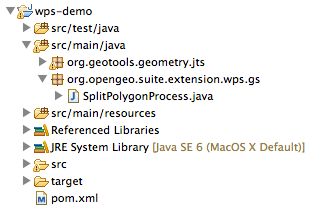
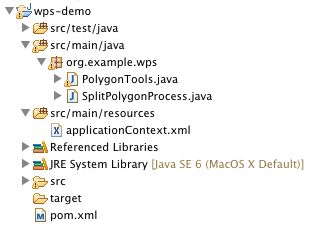
Reworked Usr Guide WPS Process tutorial

Changed region(s): [[0.0, 0.0, 0.9776, 0.9906]]

diff --git a/docs/usermanual/source/processing/wpsjava/index.rst b/docs/usermanual/source/processing/wpsjava/index.rst
@@ -3,55 +3,66 @@
 Creating WPS processes with Java
 ================================
 
-A Web Processing Service (WPS) process is able to perform almost any kind of computation.  The OpenGeo Suite comes with many built in WPS processes in GeoServer, however, the real power in WPS is in its extensibility.  This section will describe how to create a new WPS process in Java, as well as how to deploy it.
+Web Processing Service (WPS) processes are able to perform almost any kind of computation.  
+The OpenGeo Suite supplies many useful WPS processes built in to GeoServer.
+For even more capability, GeoServer can be extended by adding new WPS processes.  
+This section describes creating a custom WPS process in Java and how to deploy and run it in GeoServer.
 
 Overview
 --------
 
-A WPS process is a **Java class** that provides an ``execute`` method. The ``execute`` method accepts parameters which correspond to the WPS parameters, and it returns a value which becomes the output of the process.  The class must also provide metadata to specify things like the process name and description, as well as the names and descriptions of the process parameters.  The class is instantiated each time it is called, so the class can contain state (instance variables) if required.
+A WPS process is simply a **Java class** that provides an ``execute`` method. 
+The ``execute`` method accepts parameters which correspond to the WPS parameters, and it returns a value which becomes the output of the process.  
+The class also provides metadata to specify the names and descriptions of the process and its parameters.  
 
 .. todo:: An diagram of this would be excellent.  
 
-GeoTools, a set of Java libraries underlying GeoServer, provides a convenient framework for building process classes with a minimum of boilerplate code.  Some benefits to  GeoTools are:
+The GeoTools library used by GeoServer provides a convenient framework for building process classes with a minimum of boilerplate code.  
+The GeoTools **Process API** has the following features:
 
-* uses Java annotations to specify the metadata
+* allows using Java annotations to specify the metadata
 * infers the types of process parameters and outputs via reflection
-* automatically handles the complex interplay between XML representations and Java objects at runtime
+* automatically handles the runtime conversion between XML representations and Java objects
+* handles reporting any exceptions thrown by a process
 
-GeoServer includes many useful libraries that can be leveraged in a process, in addition to the full set of GeoTools libraries.  A process can also use external Java libraries if necessary, but if so, the external libraries will need to be specifically deployed along with the process.
+GeoTools includes many powerful libraries that can be leveraged in a process.  
+A process can also use external Java libraries, but in that case the external libraries need to be deployed along with the process.
 
-To create a custom WPS process, you will need to create a new Java project, either with an `IDE <http://en.wikipedia.org/wiki/Integrated_development_environment>`_ or from the command line. This tutorial will assume that you are using `Eclipse <http://www.eclipse.org>`_, a very popular IDE.  Others, like `Netbeans <http://www.netbeans.org>`_, `IntelliJ IDEA <http://www.jetbrains.com/idea/>`_, or (for the brave) purely command-line Java tools can work just as well.
-
-`Maven <http://maven.apache.org>`_ will also be used to build the project and manage its dependencies.  
+To create a custom WPS process, you will need to create a new Java project, either with an `IDE <http://en.wikipedia.org/wiki/Integrated_development_environment>`_ or using command-line tools. 
+This tutorial shows the use of the popular `Eclipse <http://www.eclipse.org>`_ IDE.  
+Other IDEs such as `Netbeans <http://www.netbeans.org>`_ or `IntelliJ IDEA <http://www.jetbrains.com/idea/>`_ can be used as well.
+In addition, `Maven <http://maven.apache.org>`_ will be used to build the project and manage its dependencies.  
 
 
 About the process
 -----------------
 
-We will create a process called ``gs:splitPolygon`` in a project called ``wps-demo``.  This process will split a polygon by a line.  Both the line and the polygon will be inputs, and the result will be the resulting split Geometry (usually a collection of polygons).
+We will create a process called ``gs:splitPolygon`` in a project called ``wps-demo``.  
+This process splits a polygon geometry by a line crossing it.  
+The inputs are the polygon to split, and the line to split by.
+The output is the geometry representing the collection of polygons resulting from the split.
 
-
-Create the Java Project
+Create the Java project
 -----------------------
 
-Use Maven to create the Java project.  In order to do that, we'll use the `Maven Archetype plugin <http://maven.apache.org/archetype/maven-archetype-plugin/>`_, a Maven project templating toolkit. As a custom WPS process is packaged as a regular JAR file, no special configuration is necessary for this project.  Type the following on a console:
+We'll use Maven to create the Java project for the process.  
+To do that we use the `Maven Archetype plugin <http://maven.apache.org/archetype/maven-archetype-plugin/>`_, a project templating tool. 
+Since a custom WPS process is packaged as a regular JAR file the standard archetype can be used for this project.  
+It will generate the project directory structure, a Maven POM file describing the project, and some useful Java artifacts.  
+Enter the following in a console:
 
 .. code-block:: console
 
-   mvn archetype:generate
+   mvn archetype:generate -DarchetypeArtifactId='maven-archetype-quickstart' -DarchetypeVersion=1.1 -DgroupId=org.example.wps -DartifactId=wps-demo -Dversion=1.0 -DinteractiveMode=false
 
-This will start the generation of the project, including the creation of a valid Maven POM (:file:`pom.xml`) file describing the project.  There will be a list of available archetypes, but as this is a simple project, you shouldn't have to choose any special number from the list. You should however, fill out the project metadata as follows:
+This command instructs Maven to generate a project using the following information:
 
-.. code-block:: console
+* The Maven groupId and the project's Java package are named ``org.example.wps``
+* The name of the project is ``wps-demo``
+* The version for the project build artifacts is ``1.0``
 
-   groupId: org.opengeo.suite.extension.wps
-   artifactId: wps-demo
-   version: 1.0-SNAPSHOT
-   package: org.opengeo.suite.extension.wps.gs
-
-.. note:: The rightmost part of the ``package`` name defines the **namespace** of the WPS process being created (``gs`` in this case, a pre-existing namespace in GeoServer).  
-
-You should end up with a project named ``wps-demo``, inside which you will be able to find the POM file. Add the following dependencies to this file:
+You should end up with a project directory named ``wps-demo`` with the POM file :file:`pom.xml` inside it. 
+Add the following GeoTools library dependencies to this file:
 
 .. code-block:: xml
 
@@ -66,7 +77,8 @@ You should end up with a project named ``wps-demo``, inside which you will be ab
       <version>8-SNAPSHOT</version>
     </dependency>
 
-Please ensure that the GeoTools version matches the one used by the OpenGeo Suite. You can check the version of GeoServer and GeoTools by clicking on the :guilabel:`About Geoserver` section at the bottom of the :guilabel:`About & Status` section of the `GeoServer Web Admin Interface <../../geoserver/webadmin/>`_.
+Please ensure that the GeoTools version matches the one used by the OpenGeo Suite being deployed into. 
+You can check the version of GeoTools by clicking on the :guilabel:`About Geoserver` section at the bottom of the :guilabel:`About & Status` section of the `GeoServer Web Admin Interface <../../geoserver/webadmin/>`_.
 
 .. todo:: Replace this image with an image of version 3.0 showing GeoTools 8
 
@@ -74,7 +86,34 @@ Please ensure that the GeoTools version matches the one used by the OpenGeo Suit
 
    *GeoServer showing GeoTools version*
 
-The entire POM file should look like this:
+You also need to add a reference to the OpenGeo Maven repository to provide access to the required libraries.
+
+.. code-block:: xml
+
+  <repositories>
+   <repository>
+    <id>opengeo</id>
+      <url>http://repo.opengeo.org</url>
+   </repository>
+  </repositories>
+
+Maven also needs to be directed to use the Java 1.5 compiler by adding the following:
+
+.. code-block:: xml
+
+  <build>
+    <plugins>
+      <plugin>
+        <artifactId>maven-compiler-plugin</artifactId>
+        <configuration>
+          <source>1.5</source>
+          <target>1.5</target>
+        </configuration>
+      </plugin>
+    </plugins>
+  </build>
+
+The final POM file should look like this:
 
 .. code-block:: xml
 
@@ -112,37 +151,53 @@ The entire POM file should look like this:
       <scope>test</scope>
     </dependency>
   </dependencies>
+  
   <repositories>
    <repository>
     <id>opengeo</id>
       <url>http://repo.opengeo.org</url>
    </repository>
   </repositories>
+  
+  <build>
+    <plugins>
+      <plugin>
+        <artifactId>maven-compiler-plugin</artifactId>
+        <configuration>
+          <source>1.5</source>
+          <target>1.5</target>
+        </configuration>
+      </plugin>
+    </plugins>
+  </build>
+  
  </project>
 
-Now that we have the project definition and dependencies set up, we can create the Eclipse project by going into the :file:`wps-demo` directory and issuing the following command:
+With the project definition and dependencies set up, we can create the Eclipse project by going into the :file:`wps-demo` directory and issuing the following command:
 
 .. code-block:: console
 
    mvn eclipse:eclipse
 
-This will create a Java project that we can import into an Eclipse workspace in order to start working on the code. The initial project structure should look like this:
+This creates a Java project that we can import into an Eclipse workspace in order to start working on the code. The project structure should look like this:
 
 .. figure:: img/project-structure.png
 
-   *Initial Eclipse project structure*
+   *Eclipse project structure*
 
 
-Create custom functionality
----------------------------
+Implement process functionality
+-------------------------------
 
-The previous steps have created a package, ``org.opengeo.suite.extension.wps.gs``, where inside we will implement the custom WPS functionality.  Next, create another package that will contain helper methods for our functionality, called ``org.geotools.geometry.jts``.  After that, add a class called ``PolygonTools``.  This class contains two methods: one to polygonize a set of Geometries (``polygonize(Geometry geometry)``) and one to split a polygon with a line (``splitPolygon(Geometry poly, Geometry line)``).
+The previous steps created a Java package ``org.example.wps`` in which to implement the custom WPS functionality.  
+We first define an auxiliary class to contain the spatial processing code.  
+Create a class called ``PolygonTools``.  This class contains two methods: one to polygonize a set of Geometries (``polygonize(Geometry geometry)``) and one to split a polygon with a line (``splitPolygon(Geometry poly, Geometry line)``).
 
-The code for the ``PolygonTools`` class is below:
+The code for the ``PolygonTools`` class is:
 
 .. code-block:: java
   
-  package org.geotools.geometry.jts;
+  package org.example.wps;
 
   import java.util.ArrayList;
   import java.util.Collection;
@@ -182,14 +237,14 @@ The code for the ``PolygonTools`` class is below:
   }
 
 
-With this class in place, now we can implement a WPS process. Create a class called ``SplitPolygonProcess`` that will have a method called ``execute``, and add it to ``org.geotools.process.geometry.gs`` with the following code:
-
+With this class in place, we can now implement the WPS process. 
+Create a class called ``SplitPolygonProcess`` 
+and populate it with the following code:
 
 .. code-block:: java 
 
-  package org.geotools.process.geometry.gs;
+  package org.example.wps;
 
-  import org.geotools.geometry.jts.PolygonTools;
   import org.geotools.process.factory.DescribeParameter;
   import org.geotools.process.factory.DescribeProcess;
   import org.geotools.process.factory.DescribeResult;
@@ -198,48 +253,53 @@ With this class in place, now we can implement a WPS process. Create a class cal
   import com.vividsolutions.jts.geom.Geometry;
 
   /**
-   * Splits a Polygon (which may contain holes) by a LineString.
-   *  
+   * A GeoServer WPS Process which splits a Polygon by a LineString.
    */
-
   @DescribeProcess(title = "splitPolygon",
-  		   description = "Splits a Polygon
-		    (which may contain holes) by a LineString")
+  		   description = "Splits a Polygon by a LineString")
   public class SplitPolygonProcess implements GSProcess {
 
     @DescribeResult(name = "result",
     			  description = "The collection of result polygons")
     public Geometry execute(
-          @DescribeParameter(name = "polygon",
-	  		  description = "The polygon to be split") Geometry poly,
-          @DescribeParameter(name = "line",
-	  	          description = "The line to split by") Geometry line)
-          throws Exception {
-          	 return PolygonTools.splitPolygon(poly, line);
+          @DescribeParameter(name = "polygon", description = "The polygon to be split") 
+	  Geometry poly,
+          @DescribeParameter(name = "line", description = "The line to split by") 
+	  Geometry line)
+    {
+      return PolygonTools.splitPolygon(poly, line);
     }
   }
 
+  
+The process metadata is used to populate the WPS capabilities documents.  
+It is specified in the source code using the following Java annotations:
 
-The ``execute`` method takes two parameters of the Geometry type: a polygon to be split and the line that will split the polygon.
+* ``DescribeProcess`` - provides the name of the process and a short description of what it does.  GeoServer automatically adds the ``gs:`` namespace to the name.
+* ``DescribeResult`` - provides the name and a short description of the output of the process
+* ``DescribeParameter`` - for each input parameter, provides the name exposed in the capabilities document and a short description of what the parameter is
 
-There is also some metadata embedded with the source code by using Java annotations.  This provides the process metadata to be included with the WPS capabilities document.  The metadata parameters are the following:
-
-* ``DescribeProcess`` - gives the WPS process a name and a short description of what it does
-* ``DescribeResult`` - gives a short description of the expected outcome of executing this process
-* ``DescribeParameter`` - for each input parameter that the execute method accepts,  provides the name that will be exposed in the capabilities document, as well as a short description of what this parameter is
-
-The ``execute`` method contains the logic of the WPS process and will be called when the request is parsed and sent to the WPS module. In this case, we are wrapping a simple method in an auxiliary class:
+The process ``execute`` method will be called when the WPS request is processed by GeoServer. 
+The method takes two parameters of type ``Geometry``: a polygon to be split and the line to split it by.
+It contains the logic implementing the process, which in this case is simply delegated to a method in the auxiliary class:
 
      ``PolygonTools.splitPolygon(poly, line);``
+
+.. note:: While beyond the scope of this tutorial, we recommend creating **unit tests** for your process.
+
+Other aspects of process implementation not shown in this example are:
+
+* The ``execute`` method may throw exceptions if necessary to report errors
+* A process class is instantiated each time it is called, so the class can contain state (instance variables) if required.
+* Any number of auxiliary classes and packages may be used to implement a process
 
 
 Configure GeoServer
 -------------------
 
-The process is now ready to be deployed, but GeoServer needs to be instructed on how to access these classes when required.
-
-
-GeoServer uses the `Dependency Injection <http://en.wikipedia.org/wiki/Dependency_injection>`_ mechanism present in its `Spring Framework <http://www.springsource.org/spring-framework/>`_, allowing it to only instantiate components that are going to be used. For GeoServer to pick up new Spring Beans, we need to configure their names and classes where their functionality resides. Add the following :file:`applicationContext.xml` file inside the maven resources folder (:file:`src/main/resources`) to achieve this:
+GeoServer uses the `Dependency Injection <http://en.wikipedia.org/wiki/Dependency_injection>`_ mechanism of the `Spring Framework <http://www.springsource.org/spring-framework/>`_ to allow instantiating components only when they are used. 
+For GeoServer to discover the new process, we need to configure it as a Spring Bean by providing a id and the process class. 
+To do this, create the directory :file:`src/main/resources` and add the following :file:`applicationContext.xml` file to it:
 
 
 .. code-block:: xml
@@ -247,37 +307,48 @@ GeoServer uses the `Dependency Injection <http://en.wikipedia.org/wiki/Dependenc
   <?xml version="1.0" encoding="UTF-8"?>
   <!DOCTYPE beans PUBLIC "-//SPRING//DTD BEAN//EN" "http://www.springframework.org/dtd/spring-beans.dtd">
   <beans>
-    <bean id="splitPolygon" class="org.opengeo.suite.extension.wps.gs.SplitPolygonProcess"/>
+    <bean id="splitPolygon" class="org.example.wps.SplitPolygonProcess"/>
   </beans>
 
 
-Your final project structure should look something like this:
+The final project structure should look like this:
 
 .. figure:: img/final-project-structure.png
 
    *Final Eclipse project structure*
+   
+  
 
+Build and deploy
+----------------
 
-Build, deploy, and test
------------------------
-
-.. note:: While beyond the scope of this tutorial, we highly recommend creating **unit tests** for your process.
-
-In order to build your custom process, run the following command from the root of your project:
+In order to build the custom process, run the following command in the root directory of the project:
 
 .. code-block:: console
   
   mvn clean install
 
-This will clean previous runs, compile your code, execute any unit tests that you might have created, and create a JAR file in the :file:`target` directory. The JAR file name is controlled by the name given to the project upon creation (``wps-demo`` in this example).
+This cleans up artifacts from previous builds, compiles the code, executes any unit tests that are present, and creates the process JAR file in the :file:`target` directory. 
+The JAR file name is taken from the project name and version (``wps-demo-1.0.jar`` in this example).
 
-Copy this JAR file inside the ``webapps/geoserver/WEB-INF/lib`` directory and then restart GeoServer.  Once GeoServer is running again, you can verify that the new process was deployed successfully by running the **WPS Request Builder**.  The WPS Request Builder is a utility that can run tests of existing WPS processes through the UI.  You can access this utility by navigating to the :guilabel:`WPS Request Builder` inside the :guilabel:`Demos` section of the `GeoServer Web Admin Interface <../../geoserver/webadmin/>`_.  
+To deploy, copy the process JAR file into the application container's ``webapps/geoserver/WEB-INF/lib`` directory and then restart GeoServer.  
 
-Once in the WPS request builder, select the process called ``gs:splitPolygon`` from the dropdown. The request builder will generate the necessary interface to be able to test the process, based on the parameters and expected outputs described in the capabilities of the process.
 
-An example of a request using the WPS Request Builder with our custom Split Polygon WPS process is shown below, taking a polygon and a line as parameters to the request
+Test the process
+----------------
 
-You can use the following input polygon and line to test the process:
+Once GeoServer is running, you can verify that the new process was deployed successfully by using the **WPS Request Builder**.  
+The WPS Request Builder is a utility that can run WPS processes through the UI.  
+You can access it by navigating to the :guilabel:`WPS Request Builder` inside the :guilabel:`Demos` section of the `GeoServer Web Admin Interface <../../geoserver/webadmin/>`_.  
+
+An example of using the WPS Request Builder with the Split Polygon WPS process is shown below.
+Select the ``gs:splitPolygon`` process from the dropdown. The request builder will generate the necessary interface to be able to test the process, based on the parameters and outputs described in the process capabilities.
+
+.. figure:: img/request-builder.png
+
+   *Newly created process in WPS request builder*
+
+The following input polygon and line can be used to test the process:
 
 .. code-block:: sql
 
@@ -285,10 +356,8 @@ You can use the following input polygon and line to test the process:
 
    LINESTRING (1117 22, 112 18, 118 13, 115 8)
 
-.. figure:: img/request-builder.png
-
-   *Newly created process in WPS request builder*
-
+Visually, the inputs and output from this test look like:   
+   
 .. figure:: img/splitPolygon.png
 
    *Polygon split by line*
